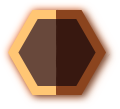
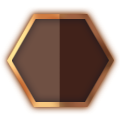
탈모현상, 인게임 유닛버튼 수정

diff --git a/Assets/02.Scripts/System/InGameSystem.cs b/Assets/02.Scripts/System/InGameSystem.cs
@@ -26,6 +26,16 @@ public class InGameSystem : MonoBehaviour
         Manager.Get<SceneManagerPro>().LoadScene("MainScene");
     }
 
+    public void OnUnitSpawnDown(GameObject obj)
+    {
+        obj.transform.localScale = new Vector3(.8f, .8f, .8f);
+    }
+
+    public void OnUnitSpawnUp(GameObject obj)
+    {
+        obj.transform.localScale = new Vector3(.9f, .9f, .9f);
+    }
+
     #region Private Variable
     // SerializeField / public
 
